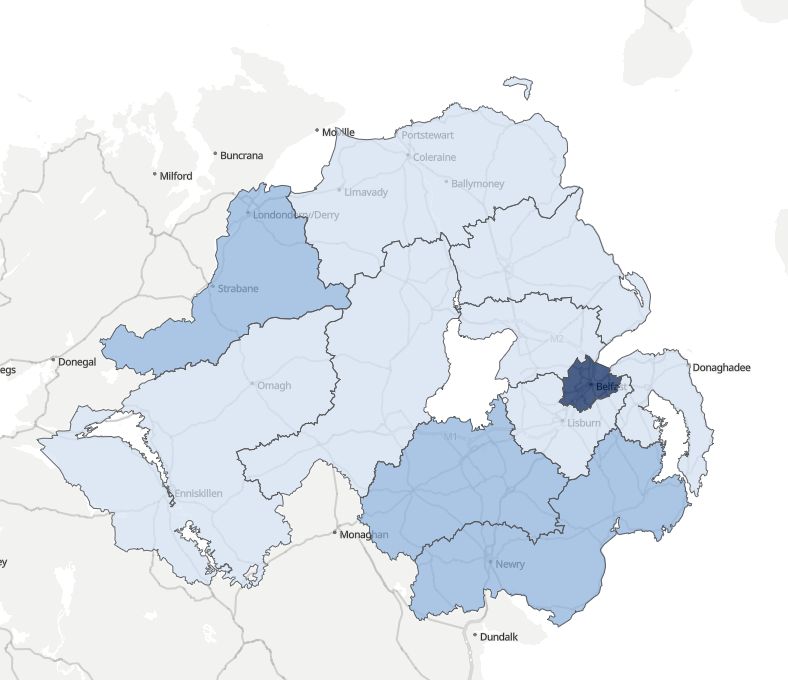
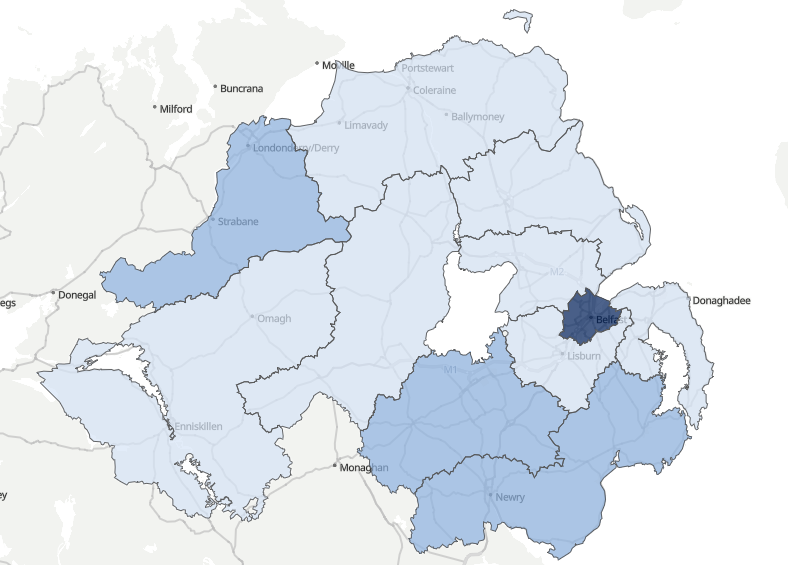
map resize and alignment

diff --git a/index.html b/index.html
@@ -20,7 +20,7 @@
             <div class="row">
                 <div class="col-6 col-xl-3 py-2">
                     <div class="home card h-100">
-                        <div class="card-body">
+                        <div class="card-body d-flex flex-column justify-content-center text-center">
                             <p class="display-4"><span id="violence-women"></span>%</p>
                             <p>of women have experienced violence</p>
                         </div>
@@ -31,7 +31,7 @@
                 </div>
                 <div class="col-6 col-xl-3 py-2">
                     <div class="home card h-100">
-                        <div class="card-body">
+                        <div class="card-body d-flex flex-column justify-content-center text-center">
                             <p class="display-4"><span id="violence-girl"></span>%</p>
                             <p>of 16-year-old girls have experienced violence</p>
                         </div>
@@ -42,7 +42,7 @@
                 </div>
                 <div class="col-6 col-xl-3 py-2">
                     <div class="home card h-100">
-                        <div class="card-body">
+                        <div class="card-body d-flex flex-column justify-content-center text-center">
                             <p class="display-4"><span id="domestic-abuse"></span>%</p>
                             <p>of women have experienced domestic abuse</p>
                         </div>
@@ -53,7 +53,7 @@
                 </div>
                 <div class="col-6 col-xl-3 py-2">
                     <div class="home card h-100">
-                        <div class="card-body">
+                        <div class="card-body d-flex flex-column justify-content-center text-center">
                             <p class="display-4"><span id="stalking"></span>%</p>
                             <p>of stalking and harrassment victims are female</p>
                         </div>
@@ -64,7 +64,7 @@
                 </div>
                 <div class="col-6 col-xl-3 py-2">
                     <div class="home card h-100">
-                        <div class="card-body">
+                        <div class="card-body d-flex flex-column justify-content-center text-center">
                             <p class="display-4"><span id="sexual-violence"></span>%</p>
                             <p>of victims of sexual offences are women</p>
                         </div>
@@ -75,7 +75,7 @@
                 </div>
                 <div class="col-6 col-xl-3 py-2">
                     <div class="home card h-100">
-                        <div class="card-body">
+                        <div class="card-body d-flex flex-column justify-content-center text-center">
                             <p class="display-4">13 women</p>
                             <p>killed by an intimate partner (dates)</p>
                         </div>
@@ -86,7 +86,7 @@
                 </div>
                 <div class="col-6 col-xl-3 py-2">
                     <div class="home card h-100">
-                        <div class="card-body">
+                        <div class="card-body d-flex flex-column justify-content-center text-center">
                             <p class="display-4"><span id="sexual-days"></span> days</p>
                             <p>to process sexual violence vs <span id="violence-days"></span> for violence against person</p>
                         </div>
@@ -97,7 +97,7 @@
                 </div>
                 <div class="col-6 col-xl-3 py-2">
                     <div class="home card h-100">
-                        <div class="card-body">
+                        <div class="card-body d-flex flex-column justify-content-center text-center">
                             <img src="assets/img/map-ni.png" alt="Map of Northern Ireland" class="img-fluid">
                         </div>
                         <div class="card-footer green-bg">
@@ -112,14 +112,14 @@
             <div class="col-xl-3"></div>
             <div class="col-6 col-xl-3 py-2">
                 <div class="card h-100 grey-bg">
-                    <div class="card-body">
+                    <div class="card-body d-flex flex-column justify-content-center text-center">
                         <a href="information.html">Information about this dashboard</a>
                     </div>
                 </div>
             </div>
             <div class="col-6 col-xl-3 py-2">
                 <div class="card h-100 grey-bg">
-                    <div class="card-body">
+                    <div class="card-body d-flex flex-column justify-content-center text-center">
                         <a href="#">For help and support</a>
                     </div>
                 </div>
